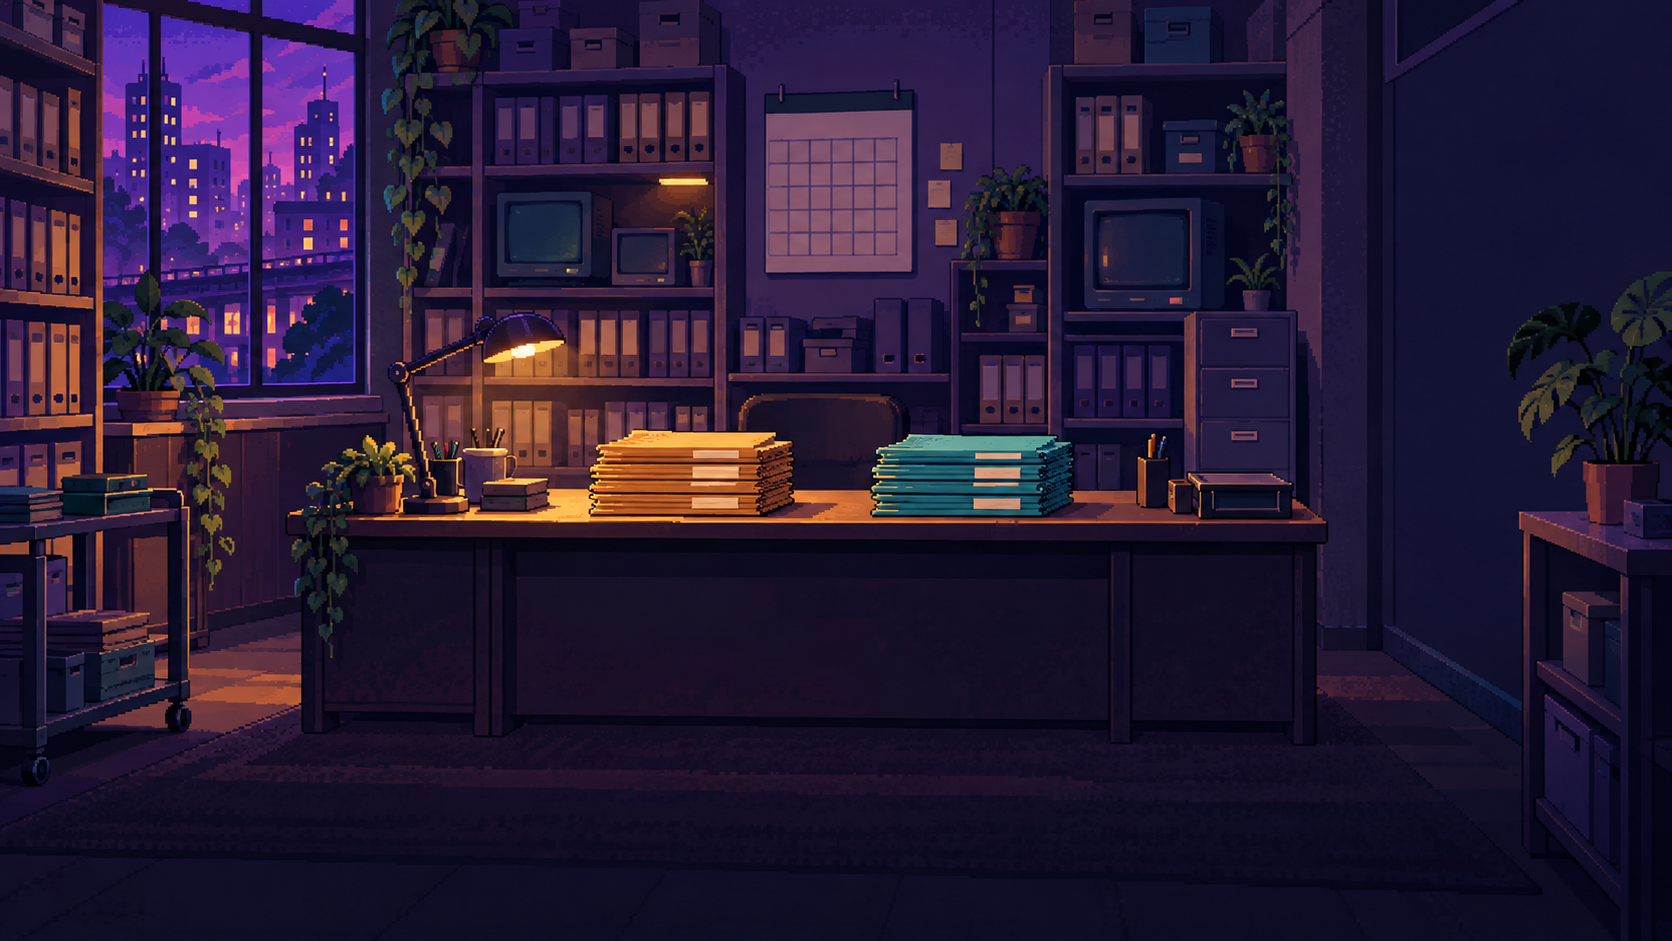
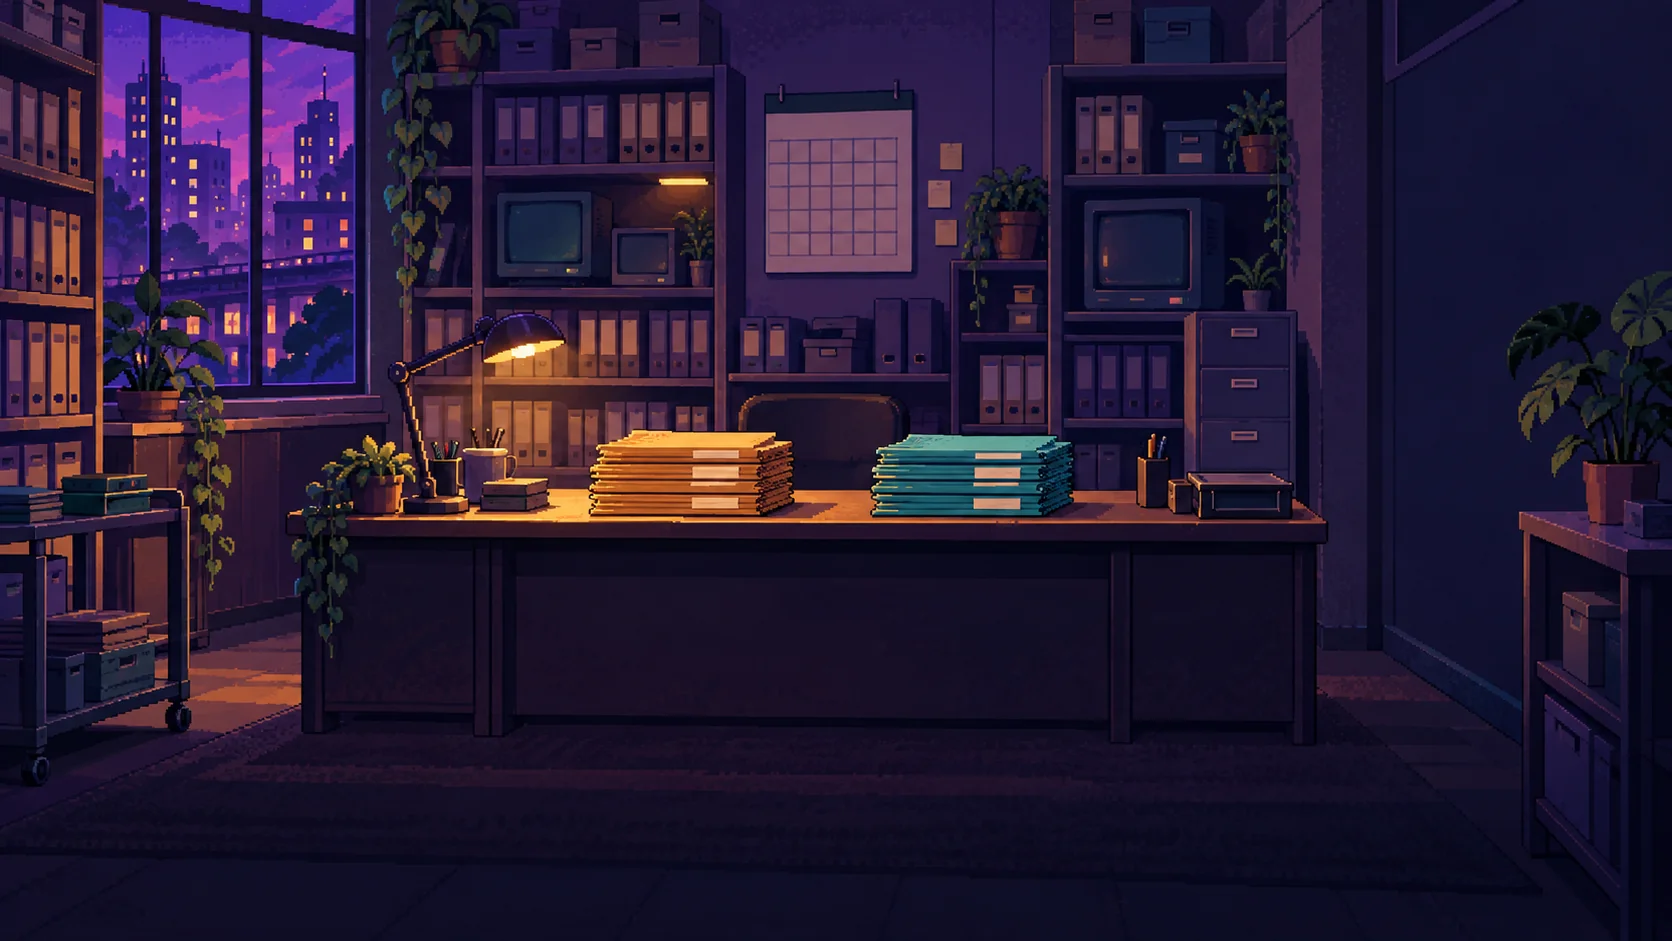
Compress story and project images, switch two PNGs to WebP

Changed region(s): [[0.2177, 0.4623, 0.2488, 0.4931], [0.0622, 0.4931, 0.0933, 0.5239]]

diff --git a/assets/stories/pm25.js b/assets/stories/pm25.js
@@ -17,7 +17,7 @@ window.RESEARCH_STORY = {
     {
       id: 'cohort', chapter: 'The people', location: 'INSIDE / THE RESEARCH ROOM',
       title: 'Follow people.\nThen follow time.', subtitle: 'Two cohorts in the All of Us Research Program.',
-      background: '../assets/images/stories/pm25/observatory.png', position: '50% 50%',
+      background: '../assets/images/stories/pm25/observatory.webp', position: '50% 50%',
       speaker: 'RESEARCH NOTES', role: 'The study population',
       text: 'We begin with people who had no recorded diagnosis of the outcome at baseline, then follow their electronic health records. Anxiety and depression are studied in two separate cohorts that may overlap, so the two counts cannot be added together.',
       source: 'Main paper · §2.1 & §3.1; Supplement · Table S1',
@@ -27,7 +27,7 @@ window.RESEARCH_STORY = {
     {
       id: 'exposure', chapter: 'The exposure', location: 'AT THE DESK / MEASURING THE AIR',
       title: 'A place.\nA year. An estimate.', subtitle: 'How a vast atmosphere becomes a research variable.',
-      background: '../assets/images/stories/pm25/observatory.png', position: '20% 60%',
+      background: '../assets/images/stories/pm25/observatory.webp', position: '20% 60%',
       speaker: 'METHOD NOTES', role: 'Defining exposure',
       text: 'The map gives each participant an annual outdoor PM₂.₅ estimate for their baseline three-digit ZIP area. It comes from a fine grid, aggregated using area and population weights. This lets us study broad patterns, while leaving a person’s daily movements and indoor air outside the frame.',
       source: 'Main paper · p. 2, §2.2; Supplement · Tables S2–S3',
@@ -38,7 +38,7 @@ window.RESEARCH_STORY = {
     {
       id: 'results', chapter: 'The results', location: 'AT THE DESK / READING THE ESTIMATES',
       title: 'Two outcomes.\nA signal in both.', subtitle: 'Higher exposure was associated with a higher hazard of diagnosis.',
-      background: '../assets/images/stories/pm25/observatory.png', position: '65% 45%',
+      background: '../assets/images/stories/pm25/observatory.webp', position: '65% 45%',
       speaker: 'RESULT NOTES', role: 'The main comparison',
       text: 'Compare the highest-exposure quarter with the lowest. The adjusted hazard ratio is 1.10 for anxiety and 1.45 for depression. These numbers describe relative rates of new diagnoses over follow-up. They do not predict whether any one person will become ill.',
       source: 'Main paper · p. 3, §3.1; Supplement · Table S4',
@@ -52,7 +52,7 @@ window.RESEARCH_STORY = {
     {
       id: 'pattern', chapter: 'The pattern', location: 'AT THE WINDOW / LOOKING CLOSER',
       title: 'The pattern\nis not uniform.', subtitle: 'Anxiety and depression have different exposure–response patterns.',
-      background: '../assets/images/stories/pm25/observatory.png', position: '80% 35%',
+      background: '../assets/images/stories/pm25/observatory.webp', position: '80% 35%',
       speaker: 'RESULT NOTES', role: 'Beyond one number',
       text: 'Now move through the exposure distribution. For depression, associations appear in the second and third quartiles as well as the fourth. For anxiety, the clearest elevation is in the highest quartile. A single summary number cannot show the whole pattern.',
       source: 'Main paper · Figure 1 & §3.1; Supplement · Table S4',
@@ -74,7 +74,7 @@ window.RESEARCH_STORY = {
     {
       id: 'checks', chapter: 'The checks', location: 'THE ARCHIVE / TESTING THE CHOICES',
       title: 'Ask the finding\nto hold up.', subtitle: 'Open the supplement. Change an analytical choice.',
-      background: '../assets/images/stories/pm25/observatory.png', position: '15% 65%',
+      background: '../assets/images/stories/pm25/observatory.webp', position: '15% 65%',
       speaker: 'ARCHIVE NOTES', role: 'Sensitivity analyses',
       text: 'What if we combine the pollution grid differently? What if we focus on longer-term residents, or account for ozone too? The supplement tests these choices. Several results remain positive, but these checks cannot supply missing residential histories or make an observational study causal.',
       source: 'Supplement · Tables S2–S3, S7–S8; main paper · §3.1',
@@ -85,7 +85,7 @@ window.RESEARCH_STORY = {
     {
       id: 'limits', chapter: 'The gaps', location: 'THE RESEARCH ROOM / WHAT IS MISSING',
       title: 'Every study\nhas blind spots.', subtitle: 'The missing pieces matter to the interpretation.',
-      background: '../assets/images/stories/pm25/observatory.png', position: '25% 40%',
+      background: '../assets/images/stories/pm25/observatory.webp', position: '25% 40%',
       speaker: 'RESEARCH NOTES', role: 'The limits of the evidence',
       text: 'We cannot see every move, every exposure, or every untreated illness. Smoking, activity, diet, and occupation were not included. The associations warrant attention, while these missing pieces leave room for other explanations. A careful reading keeps both ideas in view.',
       source: 'Main paper · pp. 5–6; Supplement · Figure S2',

diff --git a/index.html b/index.html
@@ -4792,7 +4792,7 @@ const PROJECTS_DATA = [
     venue: "Architecture MasterPrize Student Honorable Mention, 2022",
     desc: "Redesigned the 1959 Xishan Power Plant on Xishan Island using ecological landscaping, transforming the abandoned industrial site into an active public space.",
     tags: ["Industrial Reuse", "Brownfield", "Public Space"],
-    img: "assets/images/design/design_plants.png",
+    img: "assets/images/design/design_plants.webp",
     links: { award: "https://architectureprize.com/winners/winner.php?id=6100&mode=hm&compID=12798" }
   },
   {

diff --git a/assets/stories/pm25-narrative.js b/assets/stories/pm25-narrative.js
@@ -258,7 +258,7 @@ const narrative={
           "exhibit": true
         }
       ],
-      "background": "../assets/images/stories/pm25/observatory.png",
+      "background": "../assets/images/stories/pm25/observatory.webp",
       "position": "50% 50%"
     },
     {
@@ -281,7 +281,7 @@ const narrative={
           "exhibit": true
         }
       ],
-      "background": "../assets/images/stories/pm25/observatory.png",
+      "background": "../assets/images/stories/pm25/observatory.webp",
       "position": "50% 50%"
     },
     {
